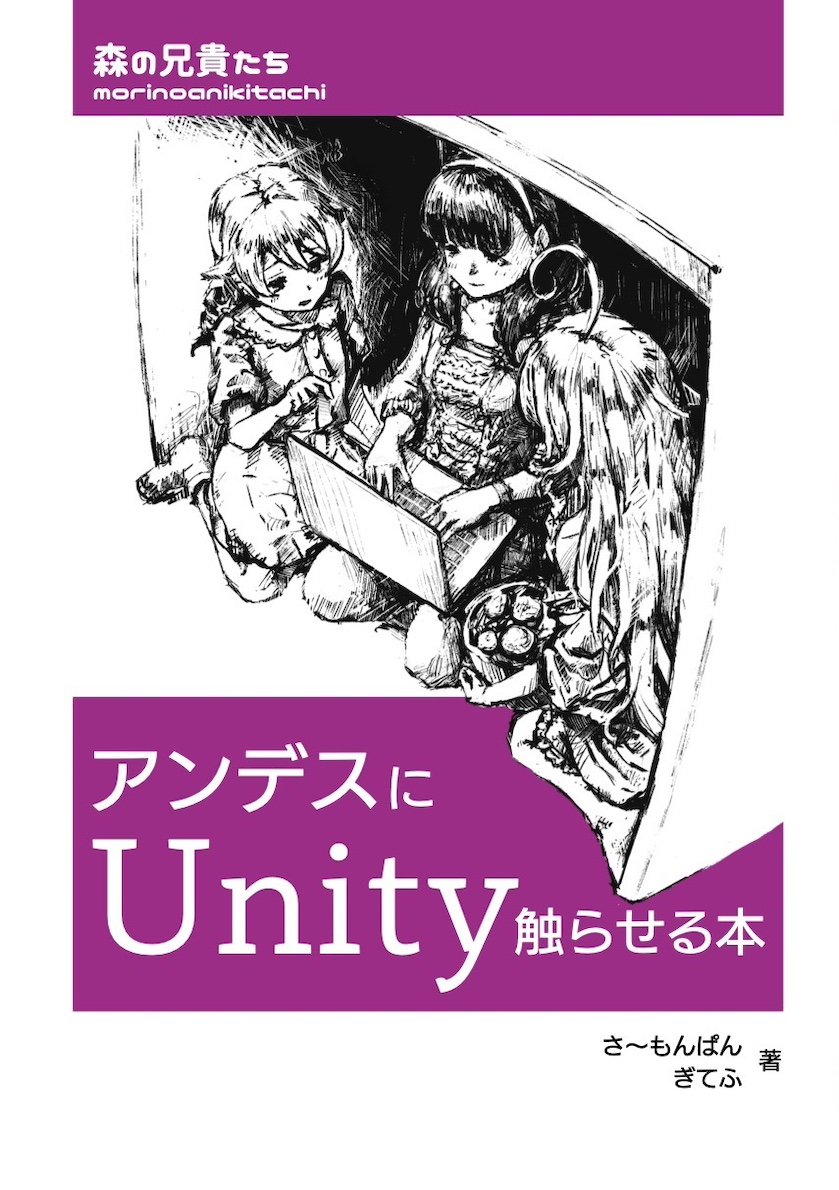
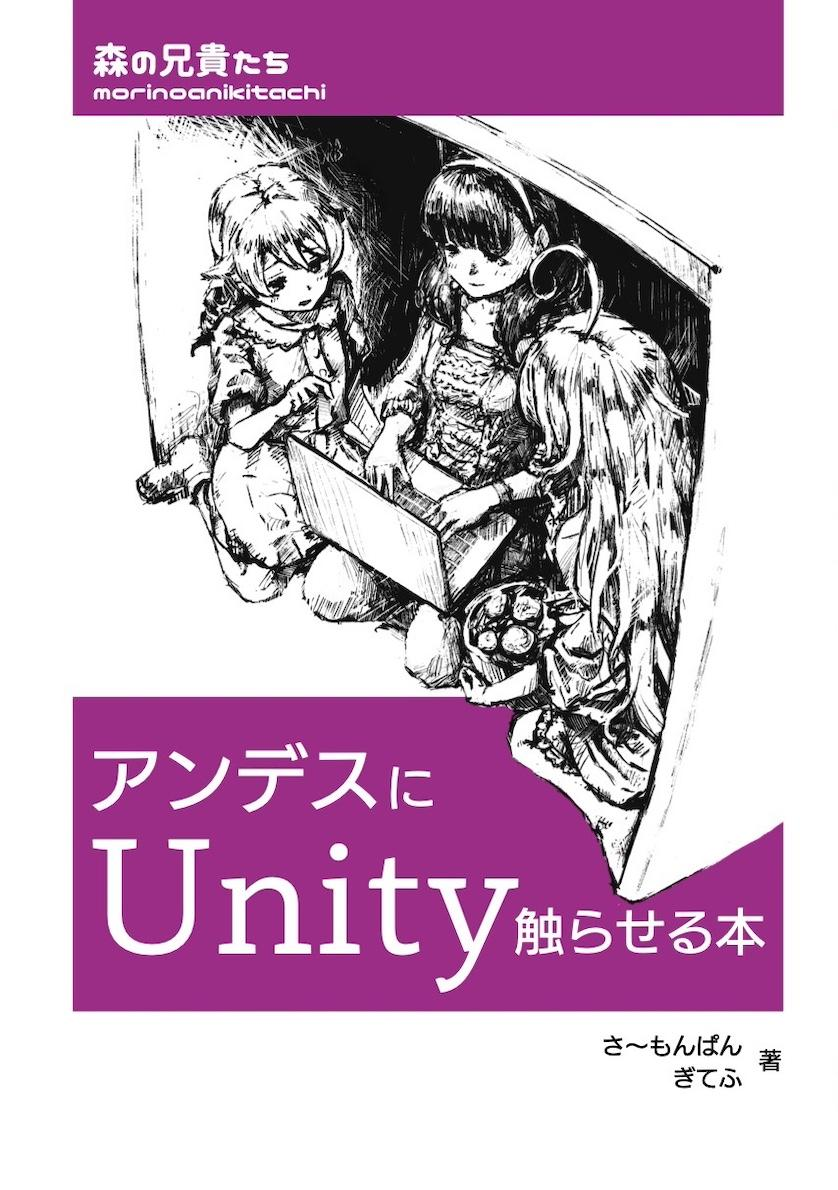
画像比率を揃えた

diff --git a/morinoanikitachi_site/convertTopJpg.py b/morinoanikitachi_site/convertTopJpg.py
@@ -1,0 +1,37 @@
+from PIL import Image
+import os
+
+# 入力フォルダ（再帰的に検索）
+input_root = "./static/img"
+
+# 目標比率（横:縦） → 148:210 = 7:10
+TARGET_RATIO = 148 / 210
+
+
+def crop_to_ratio(img, target_ratio):
+    width, height = img.size
+    current_ratio = width / height
+
+    if current_ratio > target_ratio:
+        new_width = int(height * target_ratio)
+        box = (0, 0, new_width, height)
+    else:
+        new_height = int(width / target_ratio)
+        box = (0, 0, width, new_height)
+
+    return img.crop(box)
+
+
+for root, _, files in os.walk(input_root):
+    for filename in files:
+        if filename.lower().endswith("_top.jpg"):
+            path = os.path.join(root, filename)
+            try:
+                with Image.open(path) as img:
+                    cropped = crop_to_ratio(img, TARGET_RATIO)
+                    cropped.save(path)  # 上書き保存
+                    print(f"Cropped (overwritten): {path}")
+            except Exception as e:
+                print(f"Error processing {path}: {e}")
+
+print("すべて完了しました。")
